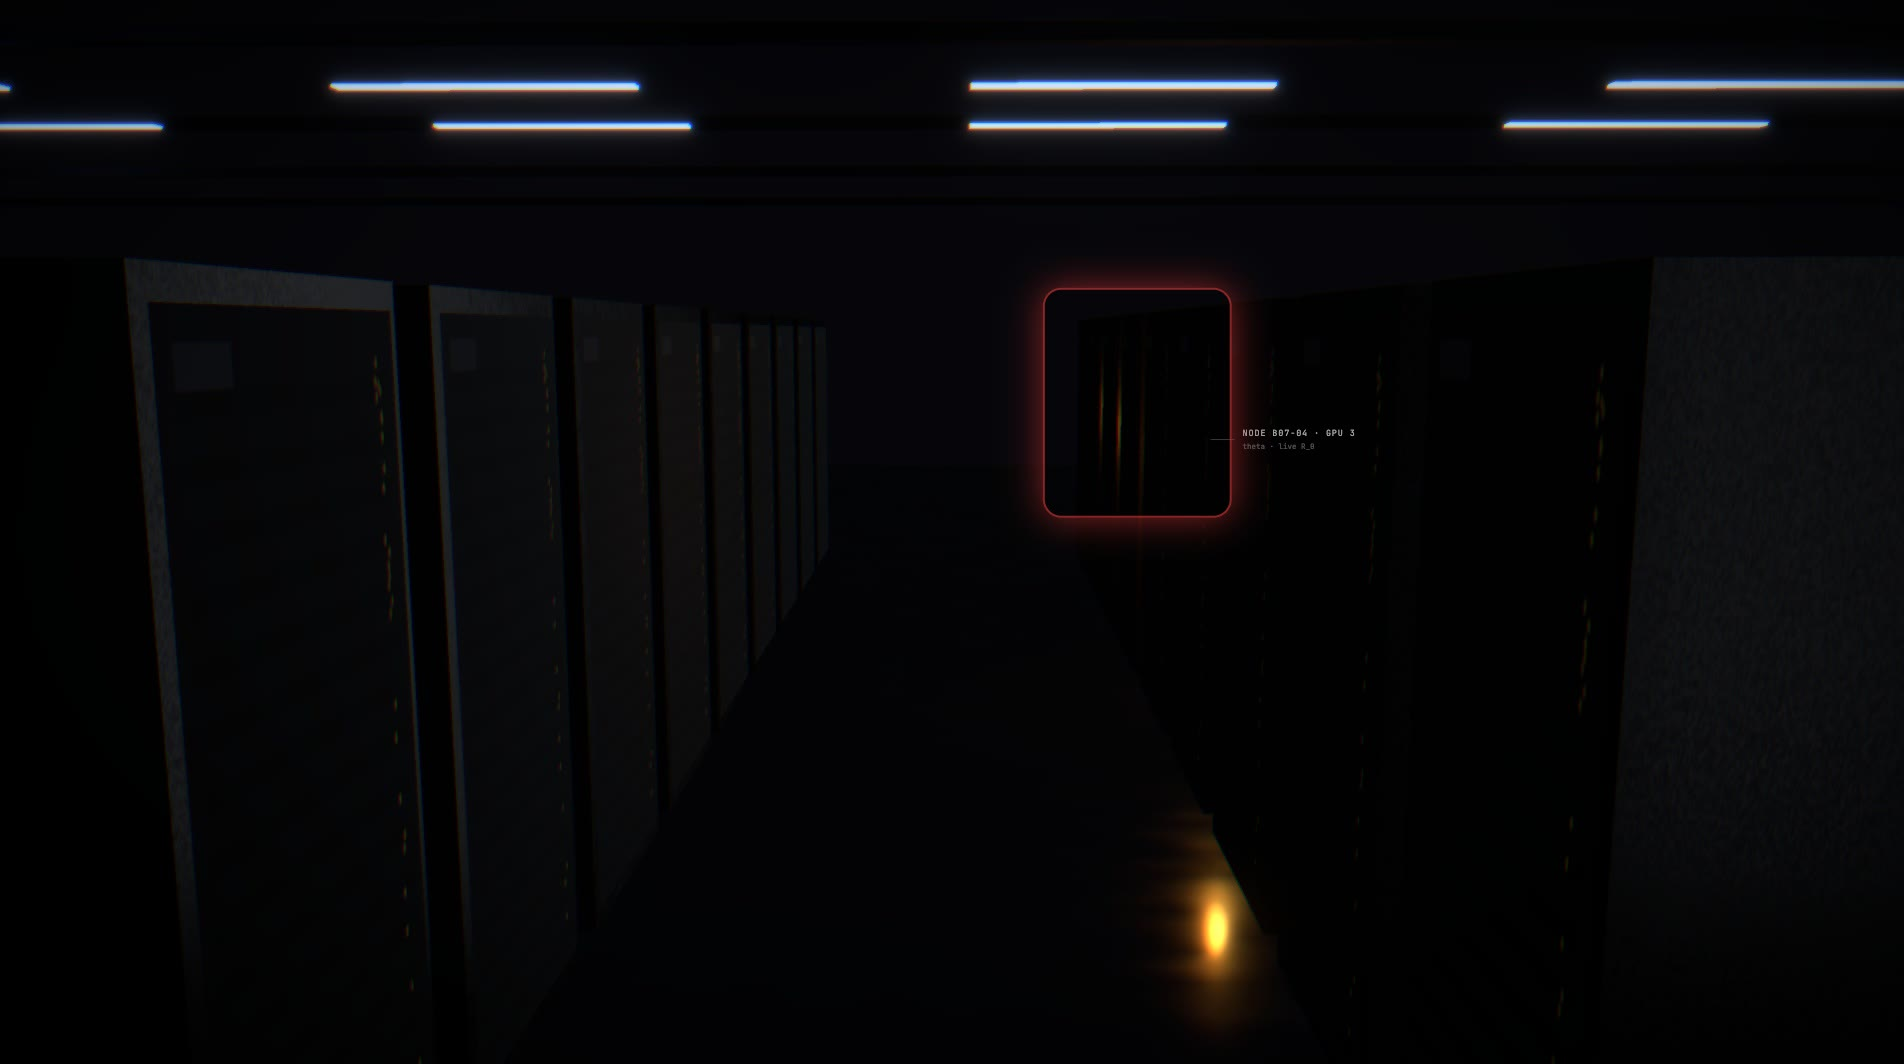
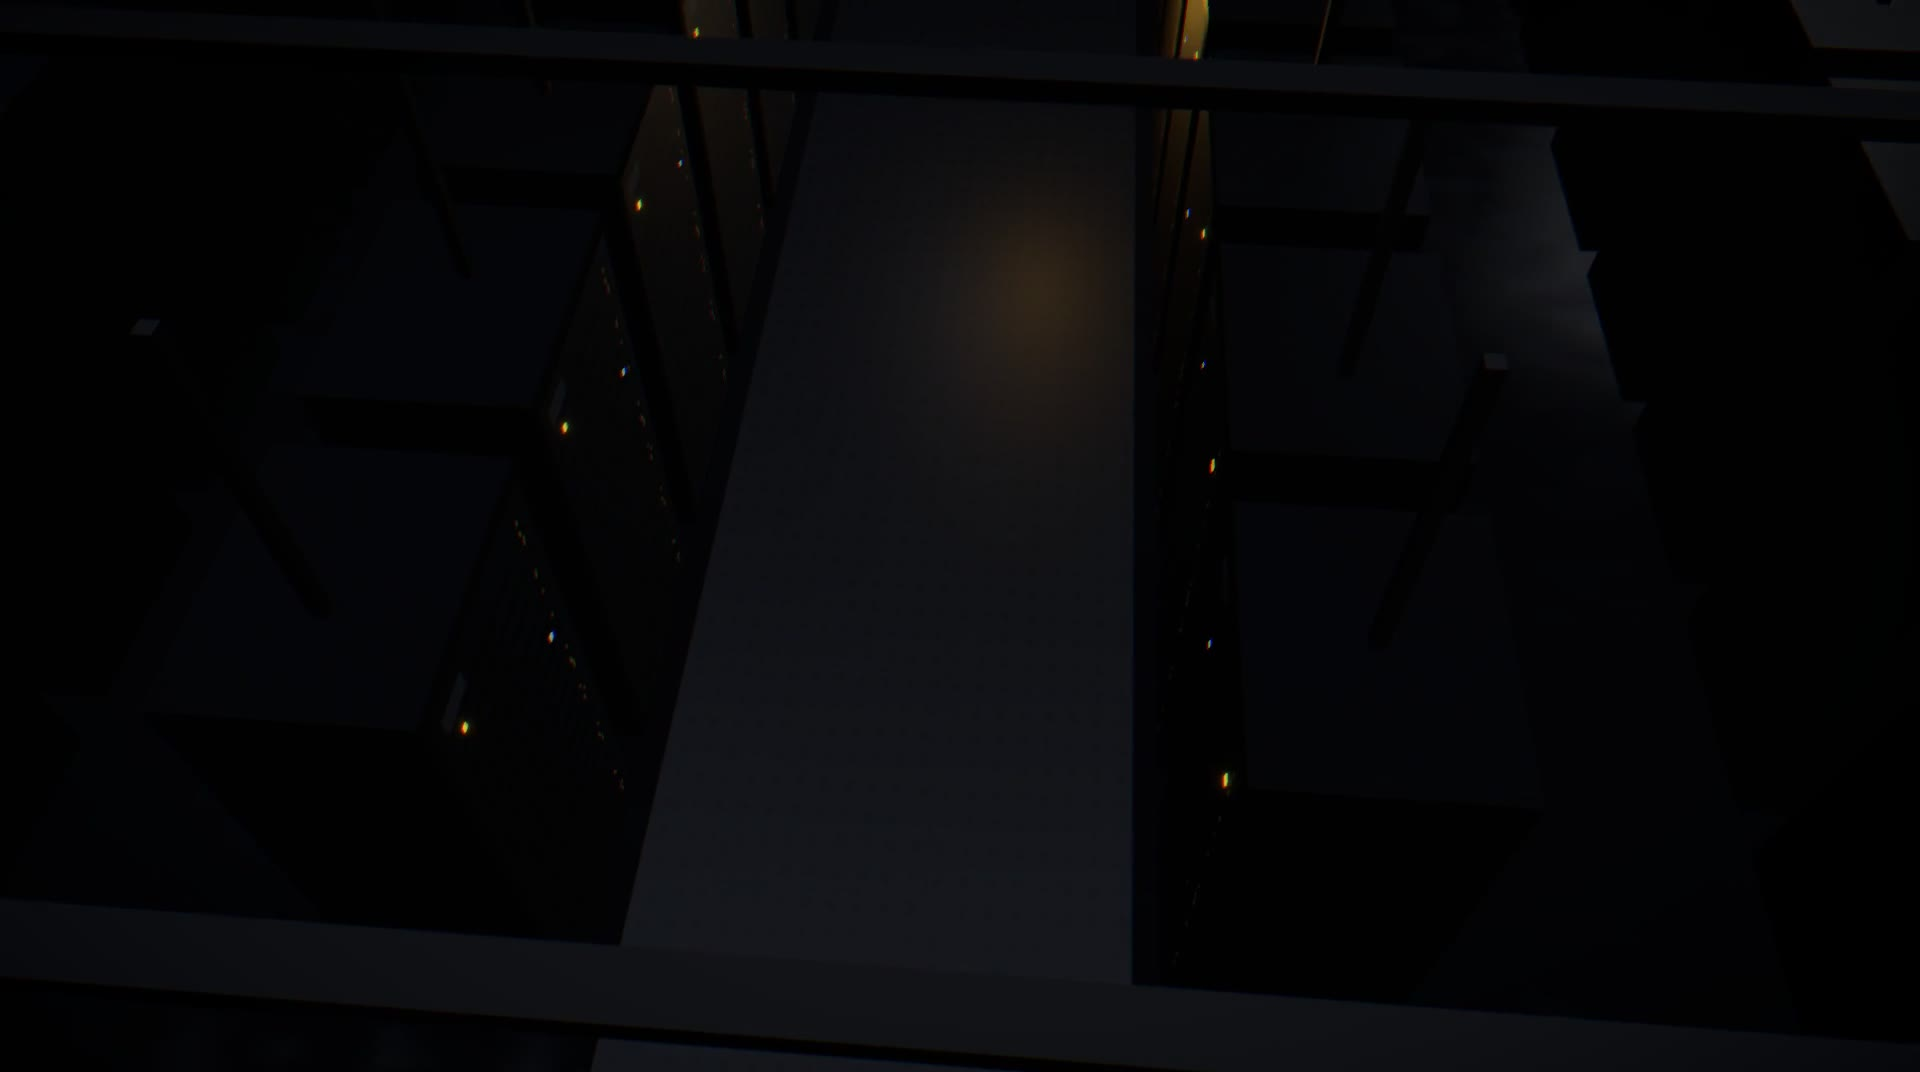
feat: hero quality pass (DOF/labels/HDRI showroom) + datacenter cinematography & detail overhaul
Hero (from the parallel quality session, now rendered + installed):
- DOF retuned (focalLength .04→.11, bokeh 1.2→.5, height 1024) — exploded
  layers crisp; bloom tamed; exposure .72→.85
- explode compressed ~30% + camera beats pulled back: labels/framing in shot
- LayerLabel + spec-card enlarged; Higgsfield studio HDRI (StudioEnv) drives
  IBL; backdrop = clean cool graphite + thin champagne line
- shoot-hero-frame.mjs: 30s single-beat preview tool

Datacenter:
- crane-shot establishing (was top-down dark boxes); arrival parked at
  corridor-context distance — three failed close-up attempts documented in
  comments (spline overshoot through the opposite rack wall ×2, unlit
  point-blank face ×1); arrival look blended toward the corridor axis
- incident micro-orbit (sine-enveloped, story-time deterministic)
- thermal light moved into the aisle (was grazing its own rack face) +
  static fill at the hero aisle; exposure 1.1→1.28; env 0.75→0.9
- instanced detail: per-rack status LEDs, cable conduits, perforated
  cold-aisle floor tiles
- shoot-scene-frame.mjs targets ABSOLUTE story time via window.__storyT
  (warm-up advance varies run-to-run; relative stepping hit different
  beats across builds)
- both videos recaptured @user; verified playing

diff --git a/src/pages/thermalos/components/DataCenterScene.tsx b/src/pages/thermalos/components/DataCenterScene.tsx
@@ -190,11 +190,23 @@ const SLED_GAP = 0.06;
 // seam is a true match-cut, not a jump.
 // ──────────────────────────────────────────────────────────────────────────
 
-const ESTABLISHING_POS  = new THREE.Vector3(0, 14, -10);
+// Crane-shot establishing: low-ish three-quarter view from OUTSIDE the rack
+// field (x < AISLE_X_START so any height is collision-safe) — racks read as
+// towers with the troffer lines above, instead of the old straight-down
+// "dark boxes" overhead at y=14.
+const ESTABLISHING_POS  = new THREE.Vector3(-14.5, 5.2, -5.5);
 const MOUTH_HIGH_POS    = new THREE.Vector3(AISLE_X_START, 12, HERO_AISLE_Z);
 const MOUTH_LOW_POS     = new THREE.Vector3(AISLE_X_START, 1.7, HERO_AISLE_Z);
-const CORRIDOR_POS      = new THREE.Vector3(-1.4, 1.6, HERO_AISLE_Z);
-const HERO_ARRIVAL_POS  = new THREE.Vector3(0.6, 1.55, HERO_AISLE_Z);
+const CORRIDOR_POS      = new THREE.Vector3(-2.6, 1.65, HERO_AISLE_Z);
+// Three-quarter arrival: lateral offset + comfortable distance from the
+// hero rack face (~3.2 units), so the incident reads as "rack in context
+// with its alert ring and neighbors" instead of a point-blank black wall.
+// Arrival stays ON the aisle centerline — zero z-kink means the CatmullRom
+// tangents physically cannot overshoot into either rack wall (two earlier
+// attempts with z-offsets of 0.7 and 0.35 both clipped the opposite row).
+// The oblique incident view comes from the +x offset and the micro-orbit;
+// this is the same framing as the proven pullback beat.
+const HERO_ARRIVAL_POS  = new THREE.Vector3(-2.3, 1.72, HERO_AISLE_Z);
 
 const FLIGHT_POINTS = [
   ESTABLISHING_POS,   // 0 establishing — high overview
@@ -209,17 +221,28 @@ const FLIGHT_POINTS = [
 ];
 const FLIGHT_CURVE = new THREE.CatmullRomCurve3(FLIGHT_POINTS, false, 'catmullrom', 0.4);
 
-const OVERVIEW_LOOK  = new THREE.Vector3(0, 0, RACK_LAYOUT[ROWS - 1].pos[2] * 0.5);
+const OVERVIEW_LOOK  = new THREE.Vector3(2, 1.4, RACK_LAYOUT[ROWS - 1].pos[2] * 0.45);
 const CORRIDOR_LOOK  = new THREE.Vector3(AISLE_X_START + 4, 1.6, HERO_AISLE_Z);
 const TRACKING_LOOK  = new THREE.Vector3(-0.6, 1.5, HERO_AISLE_Z);
-const HERO_LOOK      = new THREE.Vector3(...RACK_LAYOUT[HERO_RACK_INDEX].pos);
+// Look at the hero SLED, not the rack origin — pos[1] is 0 (floor), which
+// tilted every arrival frame down into empty floor.
+const HERO_LOOK      = new THREE.Vector3(RACK_LAYOUT[HERO_RACK_INDEX].pos[0], 1.45, RACK_LAYOUT[HERO_RACK_INDEX].pos[2]);
+
+// Arrival look = hero biased toward the corridor axis — a dead-on stare at
+// the rack face wastes the frame on an unlit wall; keeping the aisle's
+// vanishing point in frame preserves the troffer/corridor depth that makes
+// the incident composition work.
+const ARRIVAL_LOOK = new THREE.Vector3(
+  HERO_LOOK.x * 0.35, 1.47,
+  THREE.MathUtils.lerp(HERO_AISLE_Z, HERO_LOOK.z, 0.5)
+);
 
 const LOOK_POINTS = [
   OVERVIEW_LOOK,   // 0 wide overview
   CORRIDOR_LOOK,   // 1 looking down the corridor ahead
   TRACKING_LOOK,   // 2 still tracking forward down the centerline
   HERO_LOOK,       // 3 focus pull — onto the hero rack
-  HERO_LOOK,       // 4 hold on the hero rack through arrival
+  ARRIVAL_LOOK,    // 4 hold: hero + corridor depth through arrival
   HERO_LOOK,       // 5 still holding as the pull-away begins
   TRACKING_LOOK,   // 6 glancing back down the centerline (mirror of 2)
   CORRIDOR_LOOK,   // 7 corridor recedes behind (mirror of 1)
@@ -406,8 +429,38 @@ function AlertRing() {
 // without per-object LOD switching.
 // ──────────────────────────────────────────────────────────────────────────
 
+// Perforated cold-aisle floor tile — dot-grid canvas, the airflow-tile
+// signature every real datacenter aisle has.
+function makePerfTileTexture(): THREE.CanvasTexture {
+  const c = document.createElement('canvas');
+  c.width = 128; c.height = 128;
+  const ctx = c.getContext('2d')!;
+  ctx.fillStyle = '#17181d';
+  ctx.fillRect(0, 0, 128, 128);
+  ctx.fillStyle = '#0b0c0f';
+  for (let y = 8; y < 128; y += 16) {
+    for (let x = 8; x < 128; x += 16) {
+      ctx.beginPath(); ctx.arc(x, y, 3.2, 0, Math.PI * 2); ctx.fill();
+    }
+  }
+  // tile seam
+  ctx.strokeStyle = '#101116'; ctx.lineWidth = 2;
+  ctx.strokeRect(0, 0, 128, 128);
+  const t = new THREE.CanvasTexture(c);
+  t.wrapS = t.wrapT = THREE.RepeatWrapping;
+  t.anisotropy = 8;
+  return t;
+}
+
 function Environment3D({ textures }: { textures: Textures }) {
   const farZ = RACK_LAYOUT[RACK_LAYOUT.length - 1].pos[2] + 14;
+  const perfTile = useMemo(() => {
+    const t = makePerfTileTexture();
+    t.repeat.set(RACKS_PER_ROW * 1.2, 2.4);
+    return t;
+  }, []);
+  // One aisle corridor per row pair
+  const aisleZs = useMemo(() => Array.from({ length: ROWS }, (_, row) => row * (AISLE_GAP + RACK_D * 2 + 2.4)), []);
   return (
     <group>
       <mesh rotation={[-Math.PI / 2, 0, 0]} position={[0, 0, farZ / 2 - 6]}>
@@ -421,6 +474,42 @@ function Environment3D({ textures }: { textures: Textures }) {
           <meshStandardMaterial color="#0c0c10" roughness={0.6} metalness={0.5} />
         </mesh>
       ))}
+      {/* Perforated cold-aisle floor tiles — one strip per aisle corridor */}
+      {aisleZs.map((z) => (
+        <mesh key={`tile-${z}`} rotation={[-Math.PI / 2, 0, 0]} position={[0, 0.004, z]}>
+          <planeGeometry args={[RACKS_PER_ROW * RACK_PITCH + 1.2, AISLE_GAP - 0.3]} />
+          <meshStandardMaterial map={perfTile} color="#caccd2" roughness={0.5} metalness={0.45} envMapIntensity={0.7} />
+        </mesh>
+      ))}
+      {/* Rack status LEDs — instanced emissive dots on each faceplate, the
+          "alive" detail bloom picks up. One draw call for the whole floor. */}
+      <Instances limit={160} range={160}>
+        <boxGeometry args={[0.035, 0.035, 0.012]} />
+        <meshBasicMaterial toneMapped={false} />
+        {RACK_LAYOUT.flatMap((r, i) => {
+          const aisleZ = r.row * (AISLE_GAP + RACK_D * 2 + 2.4);
+          const dir = Math.sign(aisleZ - r.pos[2]) || 1; // toward the aisle
+          const faceZ = r.pos[2] + dir * (RACK_D / 2 + 0.012);
+          const seedA = (i * 0.618034) % 1;
+          const seedB = (i * 0.381966) % 1;
+          return [
+            <Instance key={`led-${i}-a`} position={[r.pos[0] - 0.45, 2.6, faceZ]}
+              color={seedA > 0.85 ? '#C8942A' : '#D4AF37'} scale={0.8 + seedA * 0.4} />,
+            <Instance key={`led-${i}-b`} position={[r.pos[0] + 0.42, 2.42 - seedB * 0.5, faceZ]}
+              color={seedB > 0.9 ? '#C85F2A' : '#8a8f98'} scale={0.6 + seedB * 0.4} />,
+          ];
+        })}
+      </Instances>
+      {/* Cable conduits — one dark riser per rack, top of frame → tray level.
+          Vertical texture for the crane/overhead beats. */}
+      <Instances limit={80} range={80}>
+        <boxGeometry args={[0.07, 1.6, 0.07]} />
+        <meshStandardMaterial color="#0e0e12" roughness={0.7} metalness={0.4} />
+        {RACK_LAYOUT.map((r, i) => (
+          <Instance key={`conduit-${i}`}
+            position={[r.pos[0] + ((i % 3) - 1) * 0.18, RACK_H + 0.8, r.pos[2]]} />
+        ))}
+      </Instances>
       {/* Aisle light fixtures — segmented troffers (not continuous bars), the
           visible counterparts to the environment-map strips. Tone-mapped so
           ACES rolls them off instead of clipping to white. */}
@@ -461,8 +550,15 @@ function SceneLights({ thermalLevelRef }: { thermalLevelRef: React.MutableRefObj
       <rectAreaLight position={[0, RACK_H + 4, RACK_LAYOUT[ROWS - 1].pos[2]]} rotation={[Math.PI / 2, 0, 0]} width={6} height={3} intensity={6} color="#9ec0ff" />
       <pointLight position={[-4, 4, RACK_LAYOUT[1].pos[2]]} intensity={2.4} color="#7fa8e0" distance={14} decay={2} />
       <pointLight position={[4, 4, RACK_LAYOUT[2].pos[2]]} intensity={2.0} color="#7fa8e0" distance={14} decay={2} />
-      <pointLight ref={thermalRef} position={[hero.pos[0], RACK_H * 0.6, hero.pos[2]]} distance={6} decay={2} />
-      <ambientLight intensity={0.05} />
+      {/* Thermal light moved INTO the aisle in front of the hero rack — at
+          the rack's own plane it only grazed its face, leaving the incident
+          beat looking at an unlit black wall. From the aisle it washes the
+          hero faceplate, its neighbors, and the floor as the glow ramps. */}
+      <pointLight ref={thermalRef} position={[hero.pos[0], 1.7, HERO_AISLE_Z + 0.7]} distance={7} decay={2} />
+      {/* Constant soft fill at the hero aisle — base visibility for the
+          arrival framing even before the incident glow ramps up */}
+      <pointLight position={[0, 2.2, HERO_AISLE_Z]} intensity={1.3} color="#aebfd4" distance={8} decay={2} />
+      <ambientLight intensity={0.09} />
     </>
   );
 }
@@ -480,12 +576,29 @@ function CameraRig() {
   const posTmp = useRef(new THREE.Vector3());
 
   useFrame((_state, delta) => {
-    const target = storyU(_storyT.current);
+    const t = _storyT.current;
+    const target = storyU(t);
     uState.current = spring(uState.current, target, delta, 1.1);
     const u = THREE.MathUtils.clamp(uState.current, 0, 1);
 
     FLIGHT_CURVE.getPointAt(u, posTmp.current);
     LOOK_CURVE.getPointAt(u, lookTmp.current);
+
+    // Incident micro-orbit — a slow quarter-arc drift around the hero rack
+    // instead of a dead-static hold. Deterministic in story time and
+    // sine-enveloped to zero at both stage boundaries, so the spline path
+    // (and the loop seam) is untouched. Drift is into the open aisle
+    // (-z, +x) — never toward either rack face.
+    const INC = STAGE_SEQUENCE.find((s) => s.stage === 'incident')!.at;
+    const PULL = STAGE_SEQUENCE.find((s) => s.stage === 'pullback')!.at;
+    if (t > INC && t < PULL) {
+      const local = (t - INC) / (PULL - INC);
+      const env = Math.sin(local * Math.PI);
+      const ang = local * Math.PI * 0.5;
+      posTmp.current.x += Math.sin(ang) * 0.9 * env;
+      posTmp.current.z -= (1 - Math.cos(ang)) * 0.3 * env;
+      posTmp.current.y += 0.28 * env;
+    }
 
     camera.position.copy(posTmp.current);
     camera.lookAt(lookTmp.current);
@@ -564,6 +677,13 @@ export default function DataCenterScene({ hudScale = 1 }: { hudScale?: number })
     _storyT.current = 0;
     _hudOpacity.current = 0;
     _alertPulse.current = 0;
+    if (CAPTURE) {
+      // Expose story time so shoot-scene-frame.mjs can target an exact
+      // story beat — the warm-up's virtual-time advance varies run to run,
+      // so "T seconds after warm-up" is not a stable beat reference.
+      (window as unknown as Record<string, unknown>).__storyT = () => _storyT.current;
+      (window as unknown as Record<string, unknown>).__storyLoop = LOOP_SECONDS;
+    }
   }, []);
 
   const textures = useMemo(() => ({ faceplate: makeFaceplateTexture(), rough: makeRoughnessMap() }), []);
@@ -571,7 +691,7 @@ export default function DataCenterScene({ hudScale = 1 }: { hudScale?: number })
   return (
     <div style={{ position: 'relative', width: '100%', height: '100%', background: T.bg }}>
       <Canvas
-        gl={{ antialias: false, toneMapping: THREE.ACESFilmicToneMapping, toneMappingExposure: 1.1, outputColorSpace: THREE.SRGBColorSpace, preserveDrawingBuffer: CAPTURE }}
+        gl={{ antialias: false, toneMapping: THREE.ACESFilmicToneMapping, toneMappingExposure: 1.28, outputColorSpace: THREE.SRGBColorSpace, preserveDrawingBuffer: CAPTURE }}
         dpr={CAPTURE ? 1 : [1, 2]}
         camera={{ position: FLIGHT_POINTS[0].toArray(), fov: 42 }}
       >
@@ -588,7 +708,7 @@ export default function DataCenterScene({ hudScale = 1 }: { hudScale?: number })
             reflection; the faint warm rear former separates the hot aisle.
             (Drop-in upgrade path: <Environment files="..."> swaps in a
             generated HDRI with zero other changes.) */}
-        <Environment resolution={256} environmentIntensity={0.75}>
+        <Environment resolution={256} environmentIntensity={0.9}>
           {[0, 9, 18, 27].map((z) => (
             <Lightformer key={z} form="rect" intensity={2.6} color="#cfdcf2"
               position={[0, 9, z]} scale={[2.6, 10]} target={[0, 0, z]} />